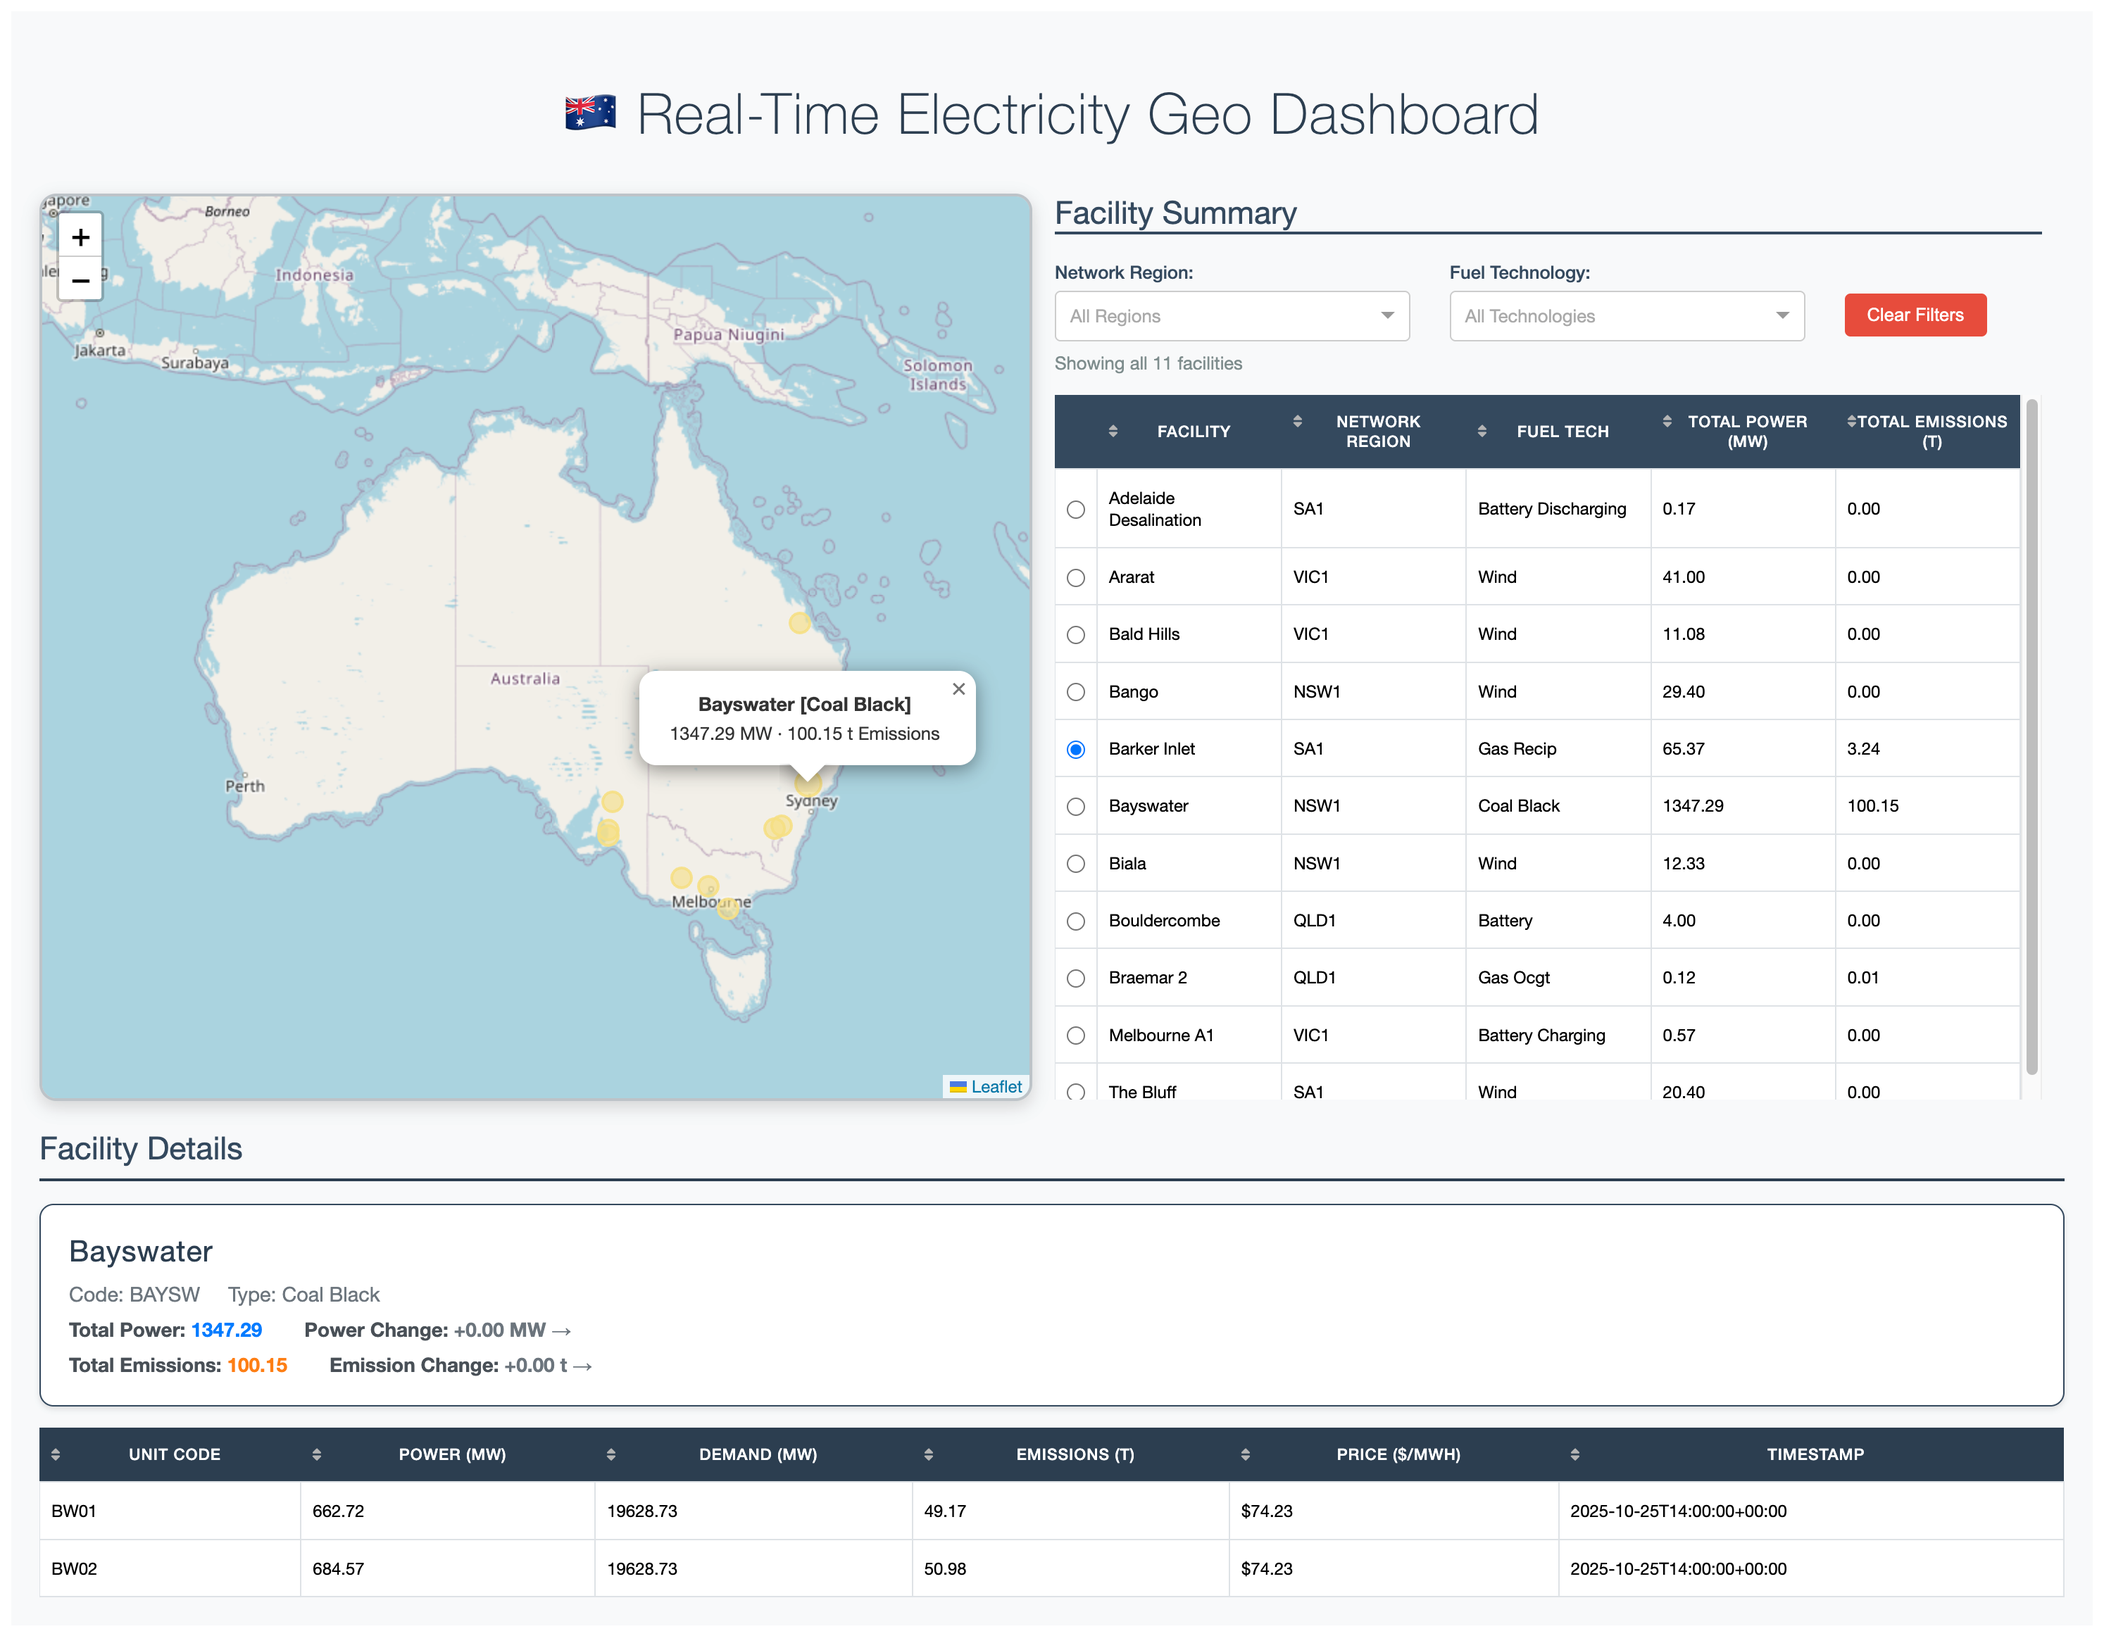
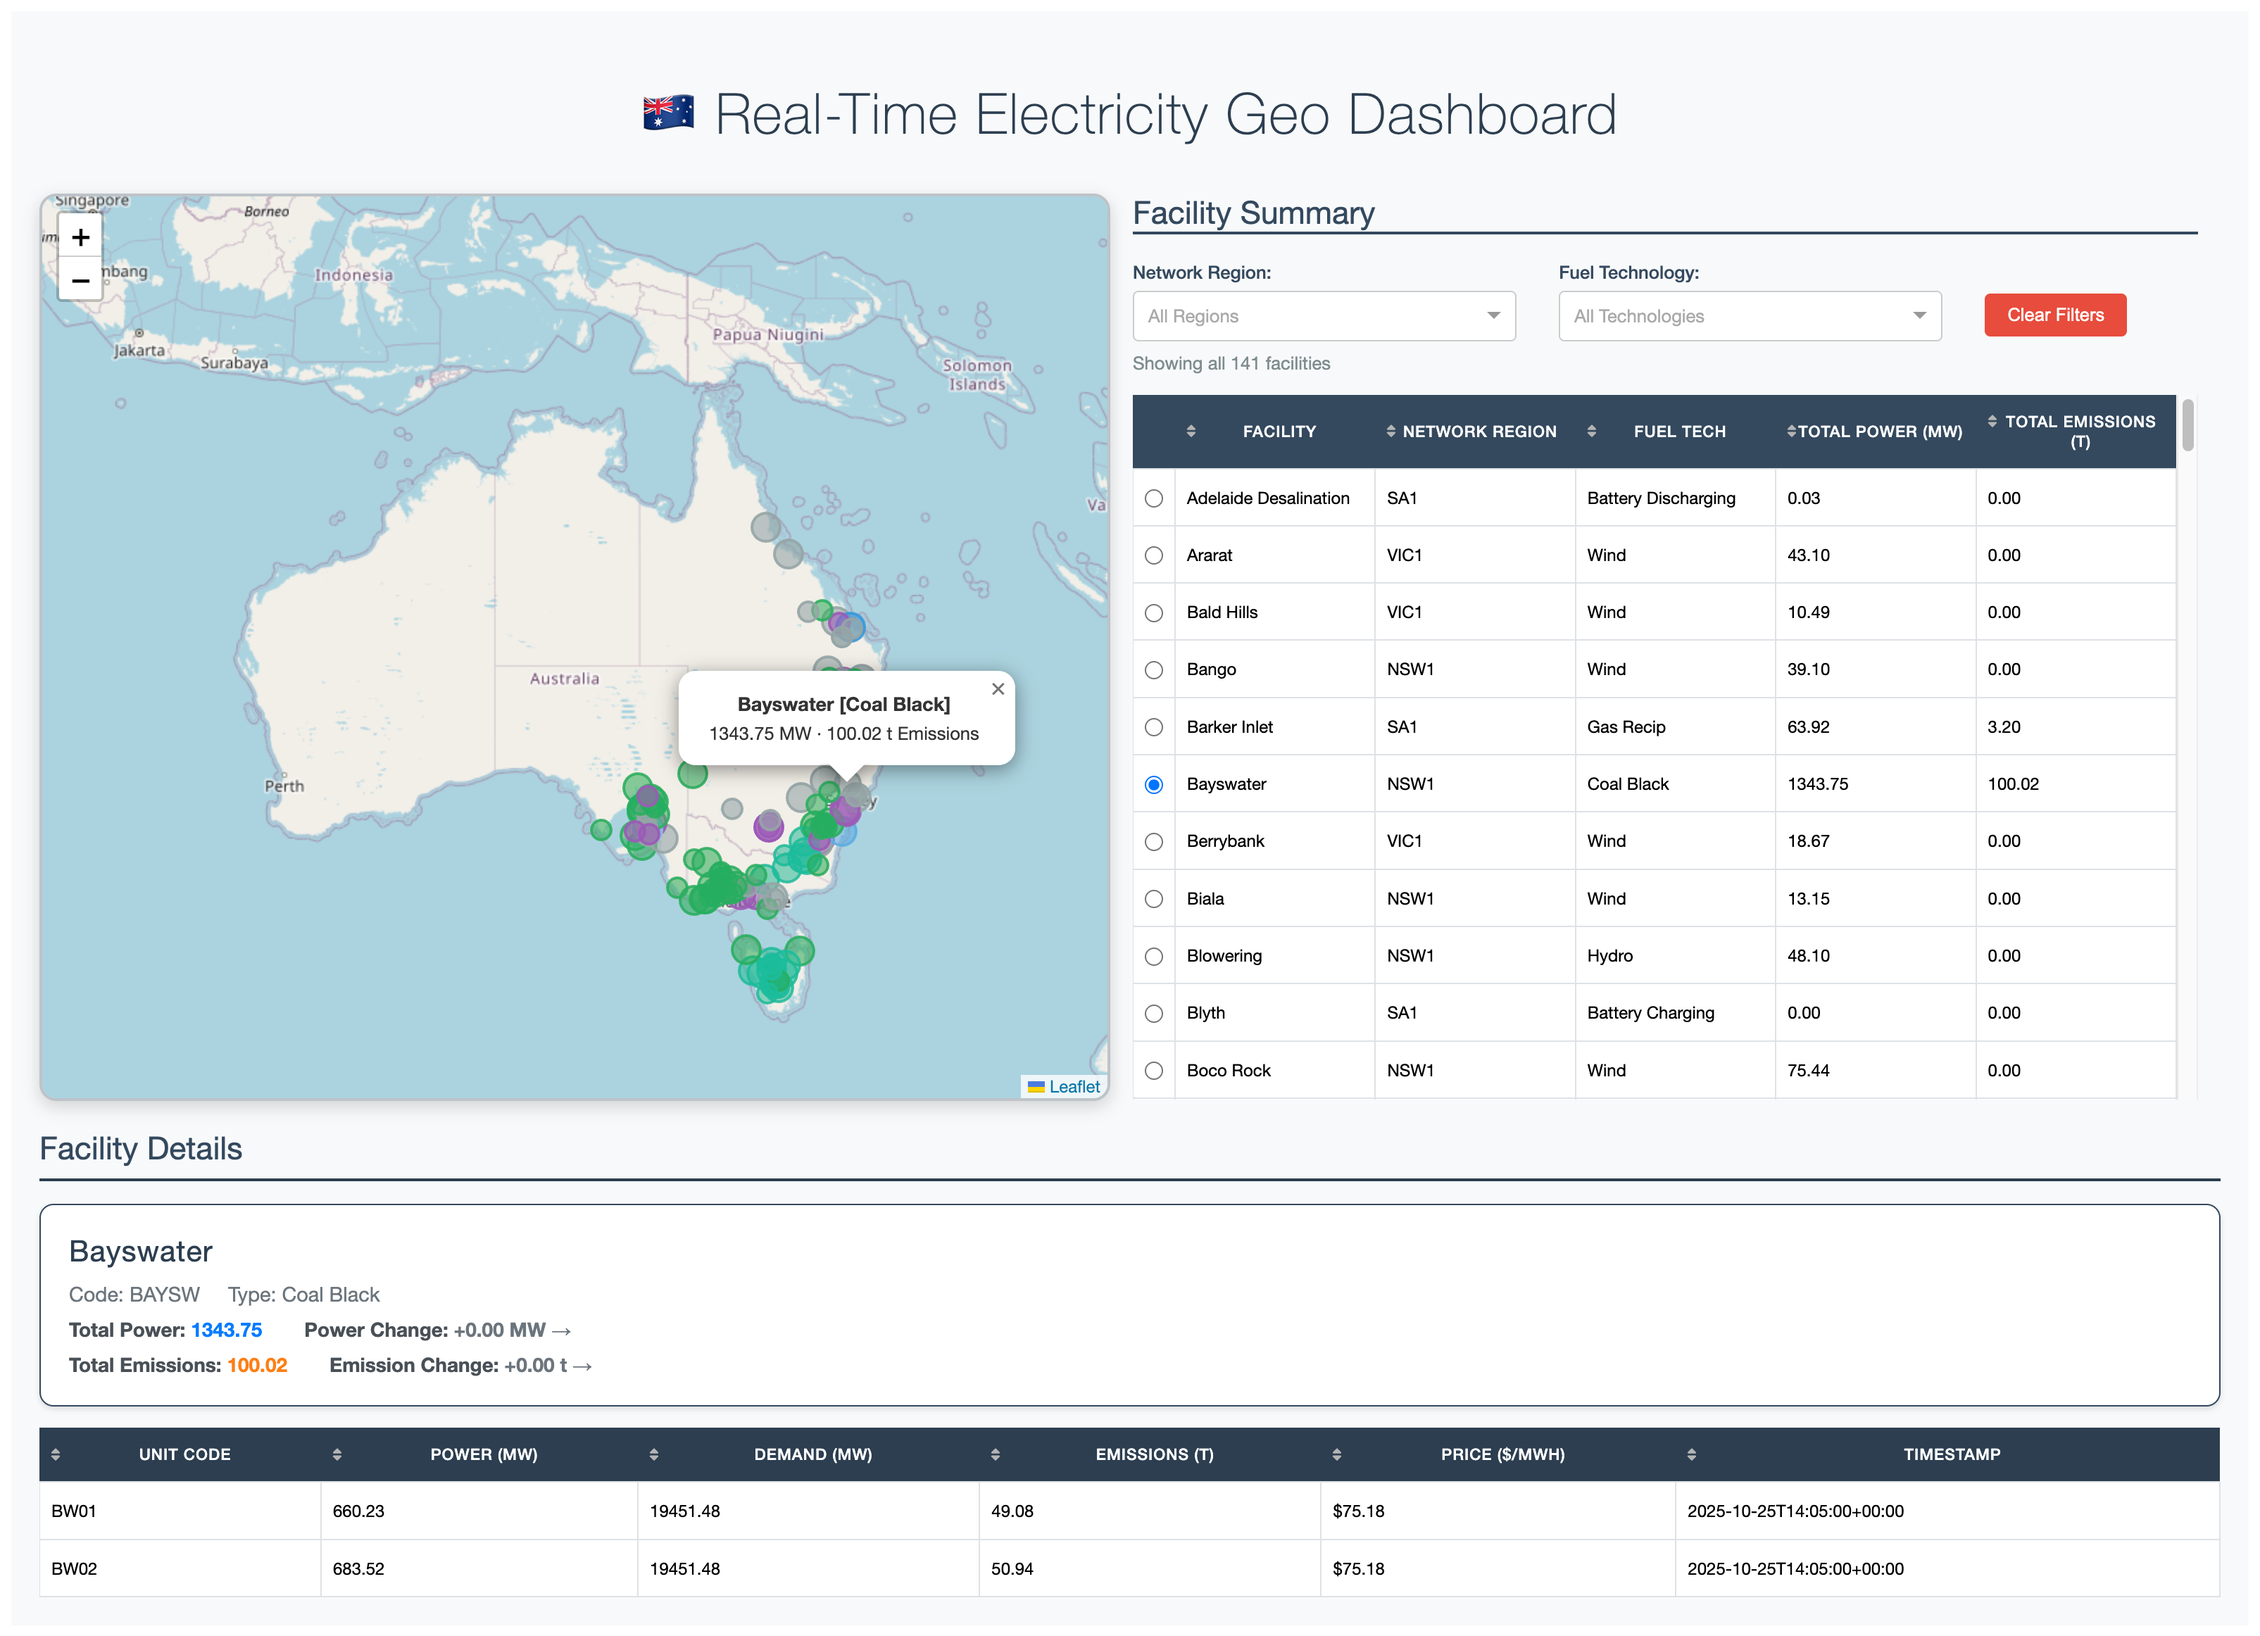
feat: update color logic of map marker

diff --git a/callbacks.py b/callbacks.py
@@ -11,7 +11,7 @@ from dash.dependencies import Input, Output, State, ALL
 import dash_leaflet as dl
 import mqtt_client
 from utils import (
-    _parse_timestamp, _to_float, _color_from_change, _radius_from_demand,
+    _parse_timestamp, _to_float, _color_from_fuel_type, _radius_from_demand,
     _build_popup_content, format_power_display, format_demand_display,
     format_emissions_display, format_price_display, format_timestamp_display,
     get_change_color, get_change_symbol, get_emission_change_color,
@@ -20,7 +20,7 @@ from utils import (
     filter_summary_data_by_region, filter_summary_data_by_fuel,
     create_filter_status_message
 )
-from config import COLORS
+from config import FUEL_TYPE_COLORS
 
 
 def register_callbacks(app):
@@ -157,11 +157,6 @@ def register_callbacks(app):
                     if facility_has_emissions and previous_has_emissions:
                         facility_emission_change = facility_total_emissions - previous_facility_emissions
 
-            # Use facility power change for marker color
-            power_change = facility_power_change
-
-            marker_color = _color_from_change(power_change)
-
             lat = _to_float(latest_point.get("lat"))
             lng = _to_float(latest_point.get("lng"))
             if lat is None or lng is None:
@@ -170,6 +165,10 @@ def register_callbacks(app):
             facility_name = latest_point.get("facility_name") or facility_id
             network_region = latest_point.get("network_region") or ""
             fuel_tech = latest_point.get("fuel_tech") or ""
+
+            # Use fuel type for marker color instead of power change
+            marker_color = _color_from_fuel_type(fuel_tech)
+            power_change = facility_power_change
 
             demand_value = _to_float(
                 latest_point.get("demand")
@@ -311,7 +310,7 @@ def register_callbacks(app):
             if lat is None or lng is None:
                 continue
 
-            marker_color = info.get("marker_color") or COLORS['no_change']
+            marker_color = info.get("marker_color") or FUEL_TYPE_COLORS['default']
             demand_value = info.get("demand_value")
             marker_radius = _radius_from_demand(
                 demand_value,
@@ -332,7 +331,6 @@ def register_callbacks(app):
             )
 
             is_selected = selected_facility == facility_id
-            outline_color = COLORS['selected_outline'] if is_selected else marker_color
             adjusted_radius = marker_radius + (1.5 if is_selected else 0.0)
 
             markers.append(
@@ -340,7 +338,7 @@ def register_callbacks(app):
                     id={"type": "facility-marker", "facility_id": facility_id},
                     center=[lat, lng],
                     radius=adjusted_radius,
-                    color=outline_color,
+                    color=marker_color,
                     fillColor=marker_color,
                     fillOpacity=0.85 if is_selected else 0.6,
                     weight=4 if is_selected else 2,

diff --git a/config.py b/config.py
@@ -30,13 +30,21 @@ MAP_ATTRIBUTION = '&copy; <a href="https://carto.com/attributions">CARTO</a>'
 BASE_MARKER_RADIUS = 7.0
 MAX_MARKER_RADIUS = 10.0
 
-# Color scheme
-COLORS = {
-    'increase': "#5dffa0",    # green for increase
-    'decrease': "#f68c80",    # red for decrease  
-    'unknown': "#f6df83",     # yellow for unknown
-    'no_change': "#a2b3c2",   # grey for no change
-    'selected_outline': "#0d47a1"
+# Fuel type color scheme for markers
+FUEL_TYPE_COLORS = {
+    'black_coal': "#2c3e50",        # dark grey/black for coal
+    'brown_coal': "#8b4513",        # brown for brown coal
+    'gas_ccgt': "#3498db",          # blue for gas combined cycle
+    'gas_ocgt': "#5dade2",          # light blue for gas open cycle
+    'gas_steam': "#85c1e9",         # pale blue for gas steam
+    'hydro': "#1abc9c",             # teal for hydro
+    'wind': "#27ae60",              # green for wind
+    'solar': "#f39c12",             # orange for solar
+    'battery': "#9b59b6",           # purple for battery
+    'biomass': "#16a085",           # dark teal for biomass
+    'landfill_gas': "#a569bd",      # light purple for landfill gas
+    'waste_coal_mine': "#34495e",   # dark grey for waste coal
+    'default': "#95a5a6"            # light grey for unknown fuel types
 }
 
 # Update interval (milliseconds)

diff --git a/utils.py b/utils.py
@@ -4,7 +4,7 @@ Utility functions for data processing and transformations.
 import math
 from datetime import datetime
 from dash import html
-from config import COLORS, BASE_MARKER_RADIUS, MAX_MARKER_RADIUS
+from config import FUEL_TYPE_COLORS, BASE_MARKER_RADIUS, MAX_MARKER_RADIUS
 
 
 def _parse_timestamp(ts_value):
@@ -25,15 +25,16 @@ def _to_float(value):
         return None
 
 
-def _color_from_change(change):
-    """Return marker color based on change value."""
-    if change is None:
-        return COLORS['unknown']
-    elif change > 0:
-        return COLORS['increase']
-    elif change < 0:
-        return COLORS['decrease']
-    return COLORS['no_change']
+def _color_from_fuel_type(fuel_tech):
+    """Return marker color based on fuel technology type."""
+    if not fuel_tech:
+        return FUEL_TYPE_COLORS['default']
+    
+    # Clean and normalize fuel tech string
+    fuel_tech_clean = str(fuel_tech).lower().replace(' ', '_').replace('-', '_')
+    
+    # Return matching color or default
+    return FUEL_TYPE_COLORS.get(fuel_tech_clean, FUEL_TYPE_COLORS['default'])
 
 
 def _radius_from_demand(demand_value, demand_min, demand_max):
